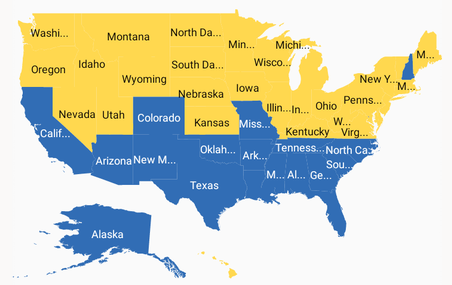
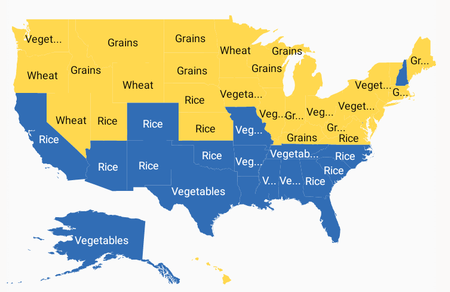
Modified the commit

diff --git a/xamarin-android/SfMaps/DataLabels.md b/xamarin-android/SfMaps/DataLabels.md
@@ -143,7 +143,7 @@ Based on the background color of the shapes, contrast color will be applied to d
 
             layer.ShapeIdTableField = "STATE_NAME";
 
-            layer.ShapeSettings.ShapeValuePath = "Name";
+            layer.ShapeSettings.ShapeValuePath = "Type";
 
             layer.ShapeSettings.ShapeColorValuePath = "Count";
 
@@ -191,7 +191,7 @@ Data labels can be customized using the [`DataLabelSetting`](https://help.syncfu
 
 {% highlight c# %}
 
-             SfMaps maps = new SfMaps(this);
+            SfMaps maps = new SfMaps(this);
          
             ShapeFileLayer layer = new ShapeFileLayer();
 
